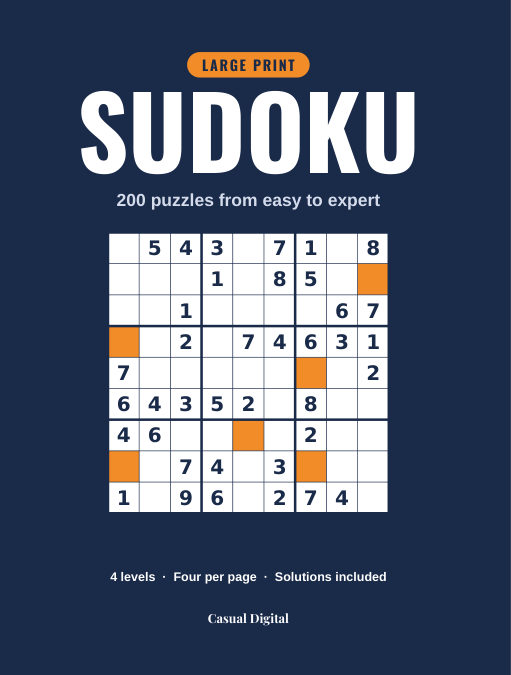
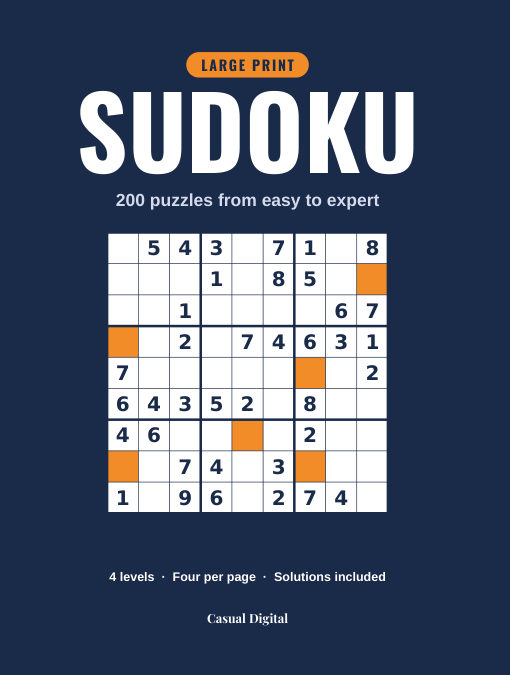
Agregar links de Amazon de los libros de Sudoku
Claude-Session: https://claude.ai/code/session_016BVRBXo1ig641h1gVMxj1y

diff --git a/index.html b/index.html
@@ -157,7 +157,7 @@
     <span class="etiqueta">Letra grande</span>
     <h3>Sudoku en Letra Grande, Vol. 1</h3>
     <p>200 sudokus de fácil a muy difícil, con soluciones.</p>
-    <div class="pie-producto"><span class="boton pronto">Próximamente en Amazon</span></div>
+    <div class="pie-producto"><a class="boton" href="https://www.amazon.com/dp/B0HR5VTCKW">Comprar en Amazon</a></div>
   </div>
 </article>
 <article class="producto" lang="es">
@@ -202,7 +202,7 @@
     <span class="etiqueta">Large print</span>
     <h3>Large Print Sudoku, Vol. 1</h3>
     <p>200 sudoku puzzles from easy to very hard, with solutions.</p>
-    <div class="pie-producto"><span class="boton pronto">Coming soon to Amazon</span></div>
+    <div class="pie-producto"><a class="boton" href="https://www.amazon.com/dp/B0HR4NKRY2">Buy on Amazon</a></div>
   </div>
 </article>
 <article class="producto" lang="en">
